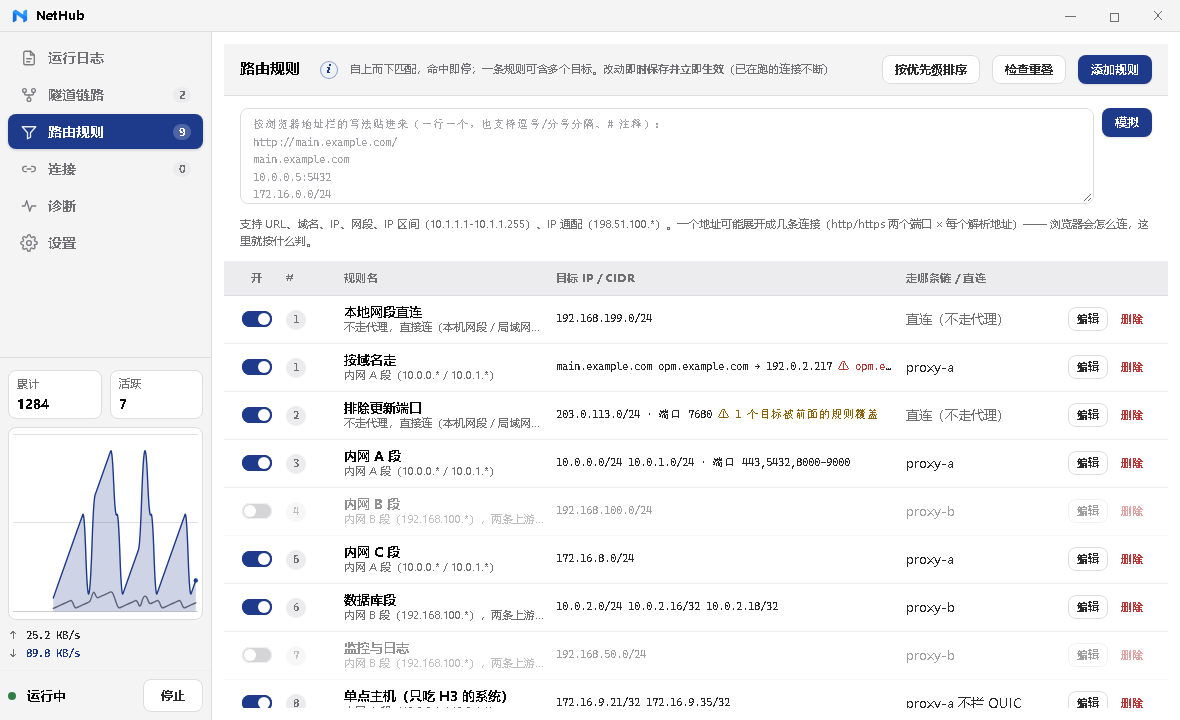
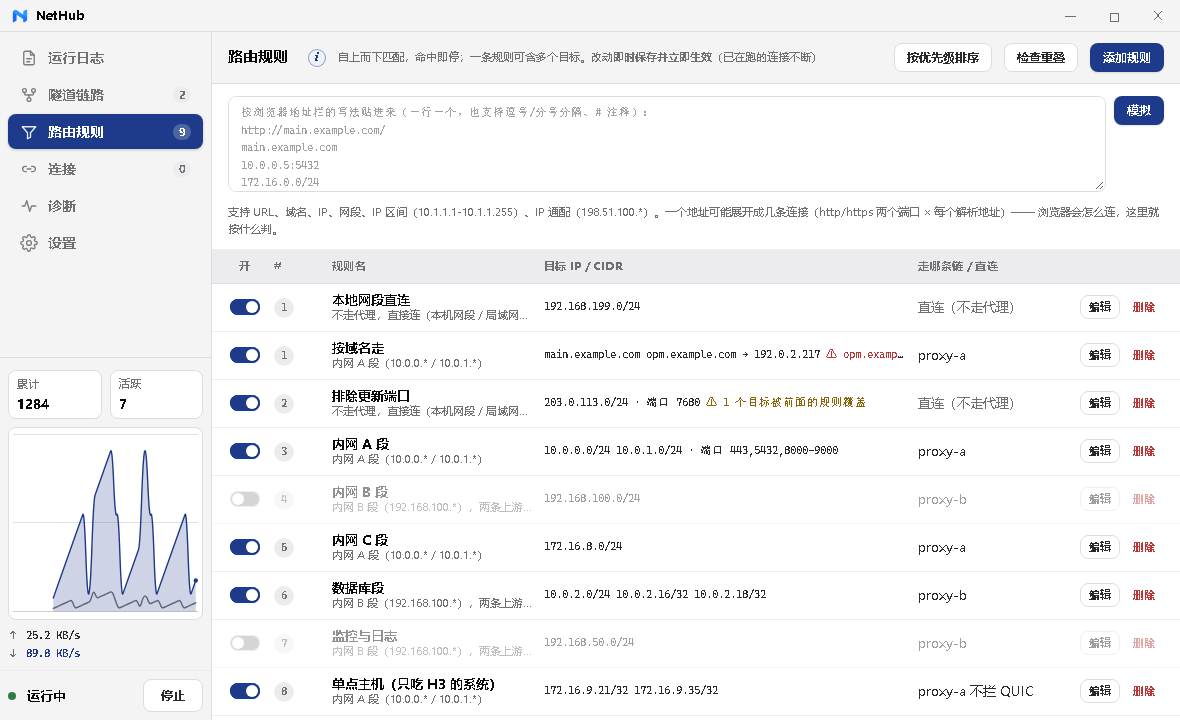
修：横幅在小窗口下不贴边（响应式规则盖掉了 .page-flat）
用户报"横幅背景还是没有左右贴边"。根因不是横幅自己的 padding：

@media (max-height: 720px) { .page { padding: var(--s3) } }   // 文件后面
.page-flat { padding: 0 }                                      // 文件前面

两条同特异性，媒体查询那条在后面且**默认窗口高度正好 720**，于是扁平页也被推进去 12px，
横幅灰底从 224 起、不是 212 起 —— 贴边等于没生效。

- 媒体查询里改成 .page:not(.page-flat)，扁平页永远 padding 0。
- ui-controls-test 补一条硬断言：.page-head 的左右边缘必须与 .page 一致（flush/eq），
  光量"标题一行 + 不溢出"抓不到这种"被别处 padding 推歪"的问题。

diff --git a/frontend/style.css b/frontend/style.css
@@ -1084,7 +1084,11 @@ html.is-tray *::after {
 /* 每行 4px 网格的紧凑布局微调 */
 @media (max-height: 720px) {
   :root { --titlebar-h: 32px; }
-  .page { padding: var(--s3); }
+  /* 矮窗口把普通页的内边距从 16 收到 12。
+     **必须排掉 .page-flat**：这条规则在文件后面、与 .page-flat{padding:0} 同特异性，
+     否则窗口一矮（≤720px，正好是默认窗口高度）横幅就又被推进去 12px ——
+     "横幅背景贴不了边"就是这么来的（2026-11-27 用户报的）。 */
+  .page:not(.page-flat) { padding: var(--s3); }
 }
 
 /* 规则重叠检查结果 */
